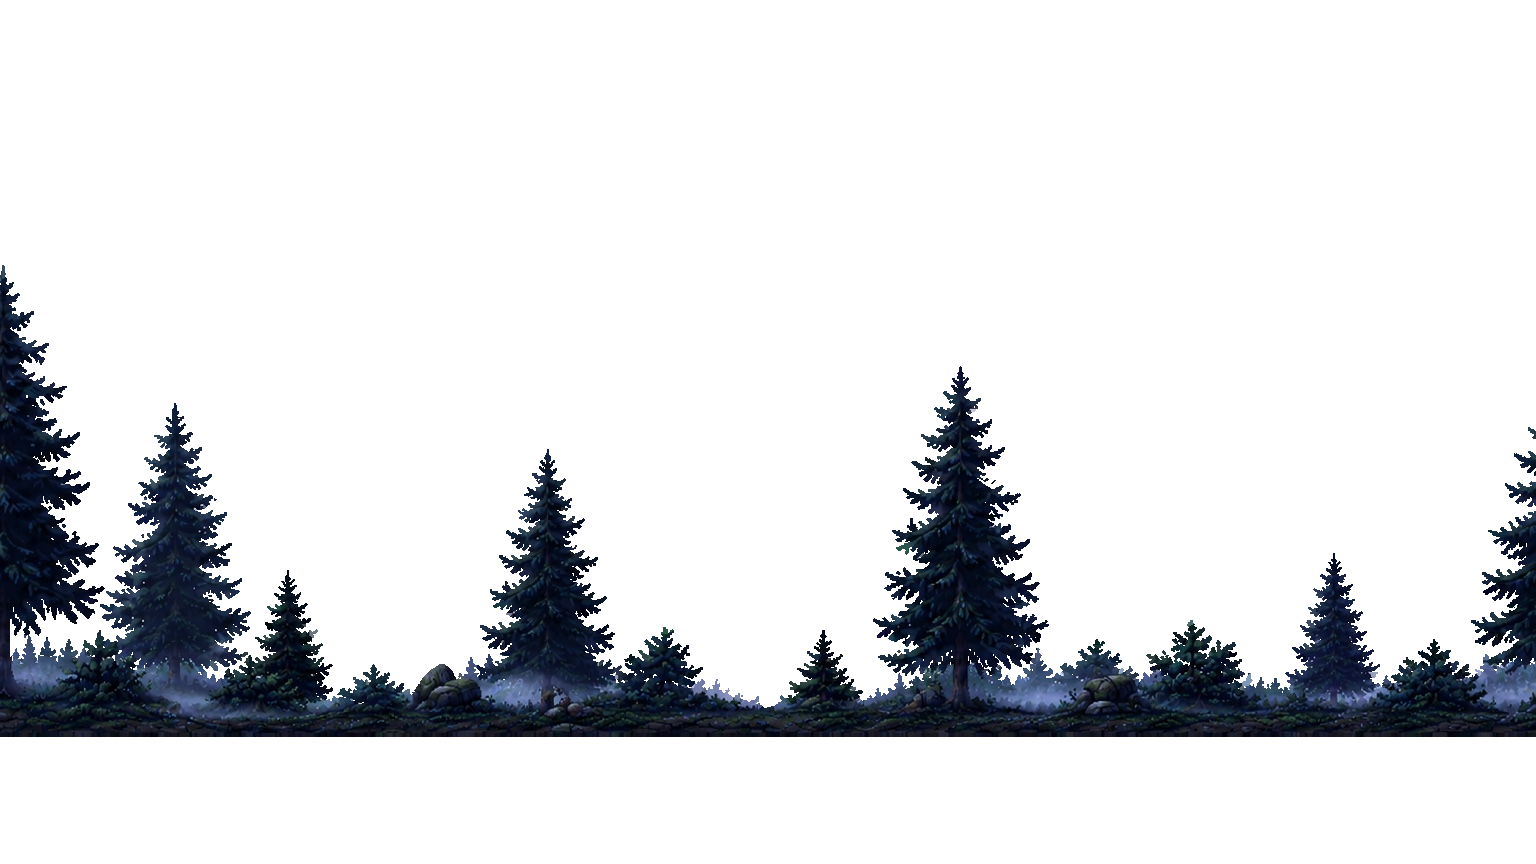
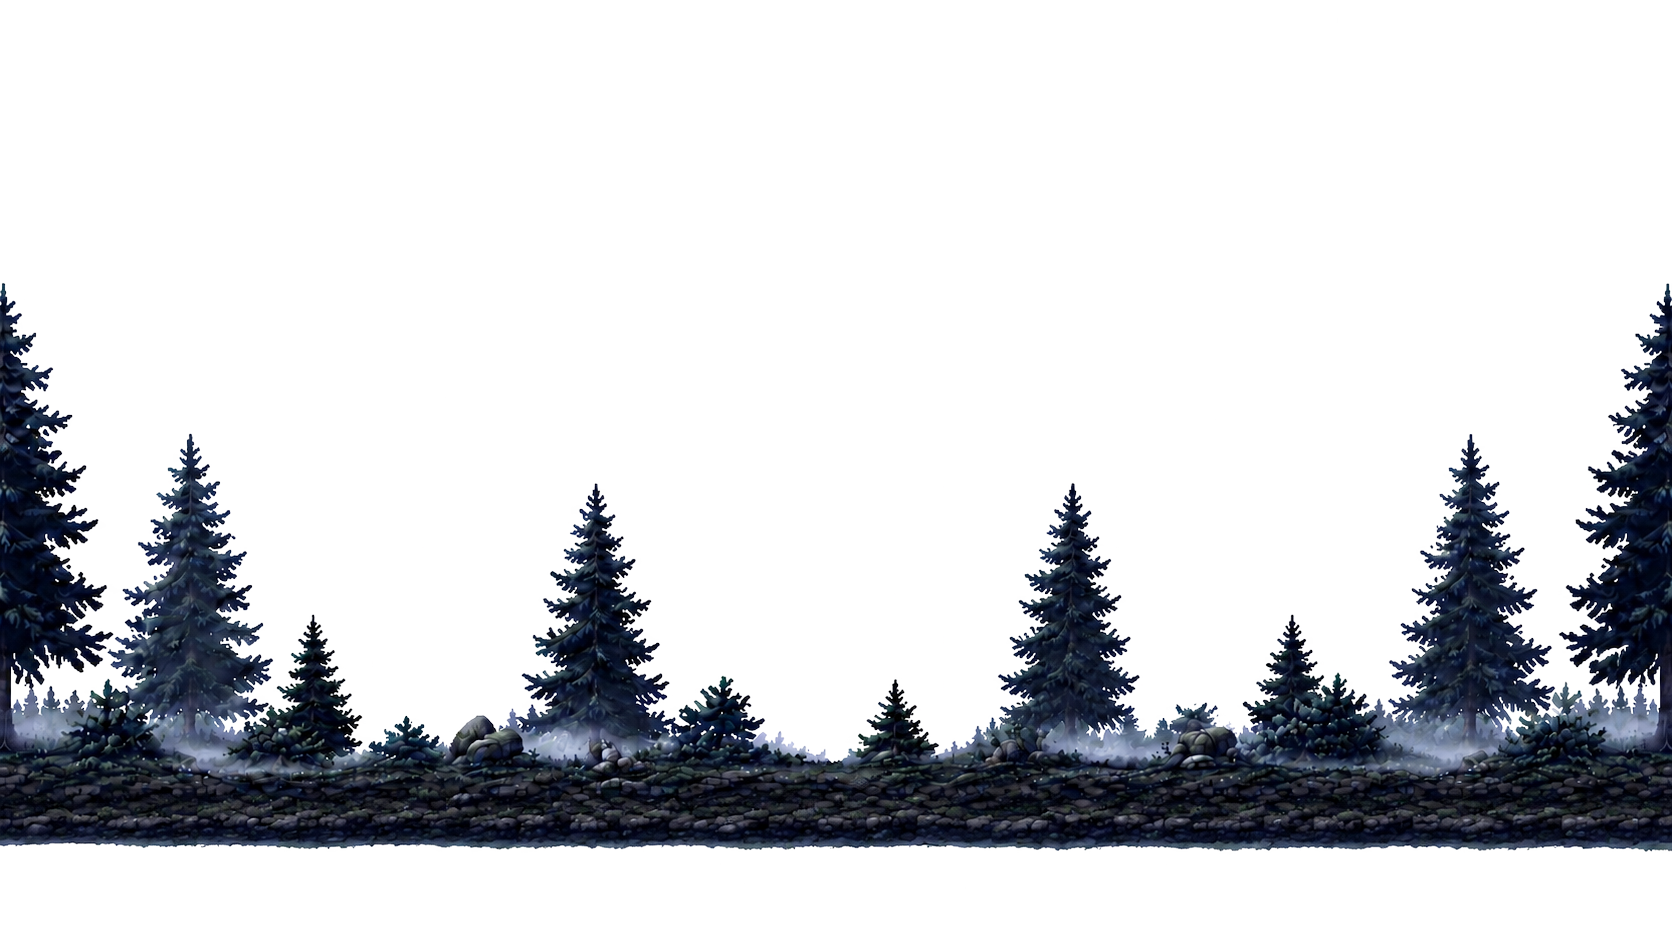
ステージ2敵絵を差し替え / ステージ1の遠景森2素材を差し替え(白抜き透過)
Claude-Session: https://claude.ai/code/session_01Bv3o2wg6cAY3nxtyWUQXgn

Changed region(s): [[0.0, 0.3125, 1.0, 0.9062]]

diff --git a/DEVELOPMENT_LOG.md b/DEVELOPMENT_LOG.md
@@ -10,6 +10,15 @@ on the zombie game. Append a new entry after each meaningful change.
 - Local URL: `http://localhost:5173/zombie/` unless Vite chooses another port
 - Renderer under active development: PixiJS only
 
+## v0.25.814 — ステージ2敵絵を差し替え / ステージ1の遠景森2素材を差し替え
+
+- **ステージ2(lab)敵スプライト差し替え**: 支給シート(透過済み)から5体をクロップして上書き。
+  上段=通常(Lv1 male/female)、下段=変異・紫結晶(Lv2 male/female)、左の巨体=Lv3。
+  ファイル: `public/sprites/lab-zombie/lab-zombie-lv{1m,1f,2m,2f,3}.png`(アスペクトは読込時 regAspect が自動追従)。
+- **ステージ1の遠景森2(nearHorizon='forest')差し替え**: 支給は白背景RGBAだったので白を抜いて透過化
+  (alpha=255-min(r,g,b)。暗い木=不透明 / 霧=半透明 / 白=透明)。`public/backgrounds/stage1-near-forest.png` 上書き。
+- 変更ファイル: 上記アセットのみ(コード変更なし)。検証: 透過合成プレビューで確認。
+
 ## v0.25.813 — 遠景森1を10px下げ / 近景森の半透明をやめ / vignette中心を狭く
 
 1. **遠景森1を10px下へ**: `HORIZON_FOREST_Y_OFFSET_PX` -100 → -90(+Y=下)。
